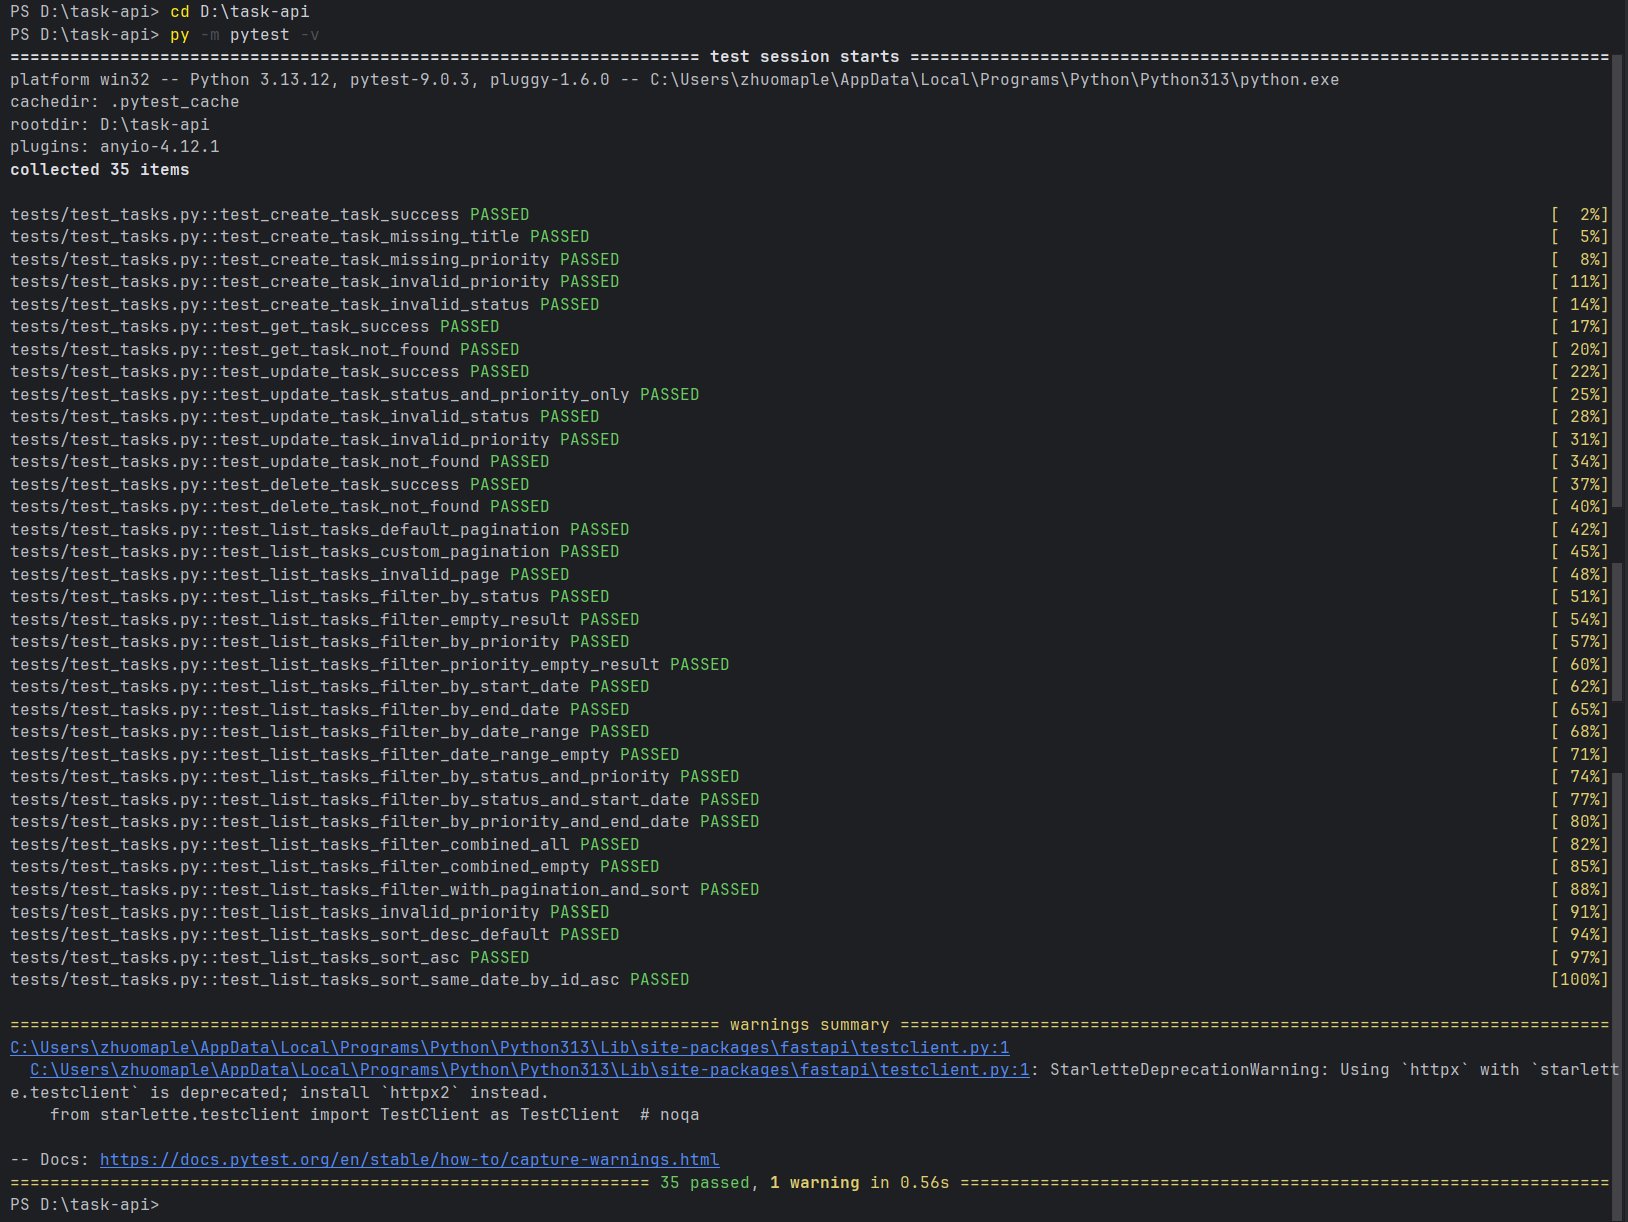
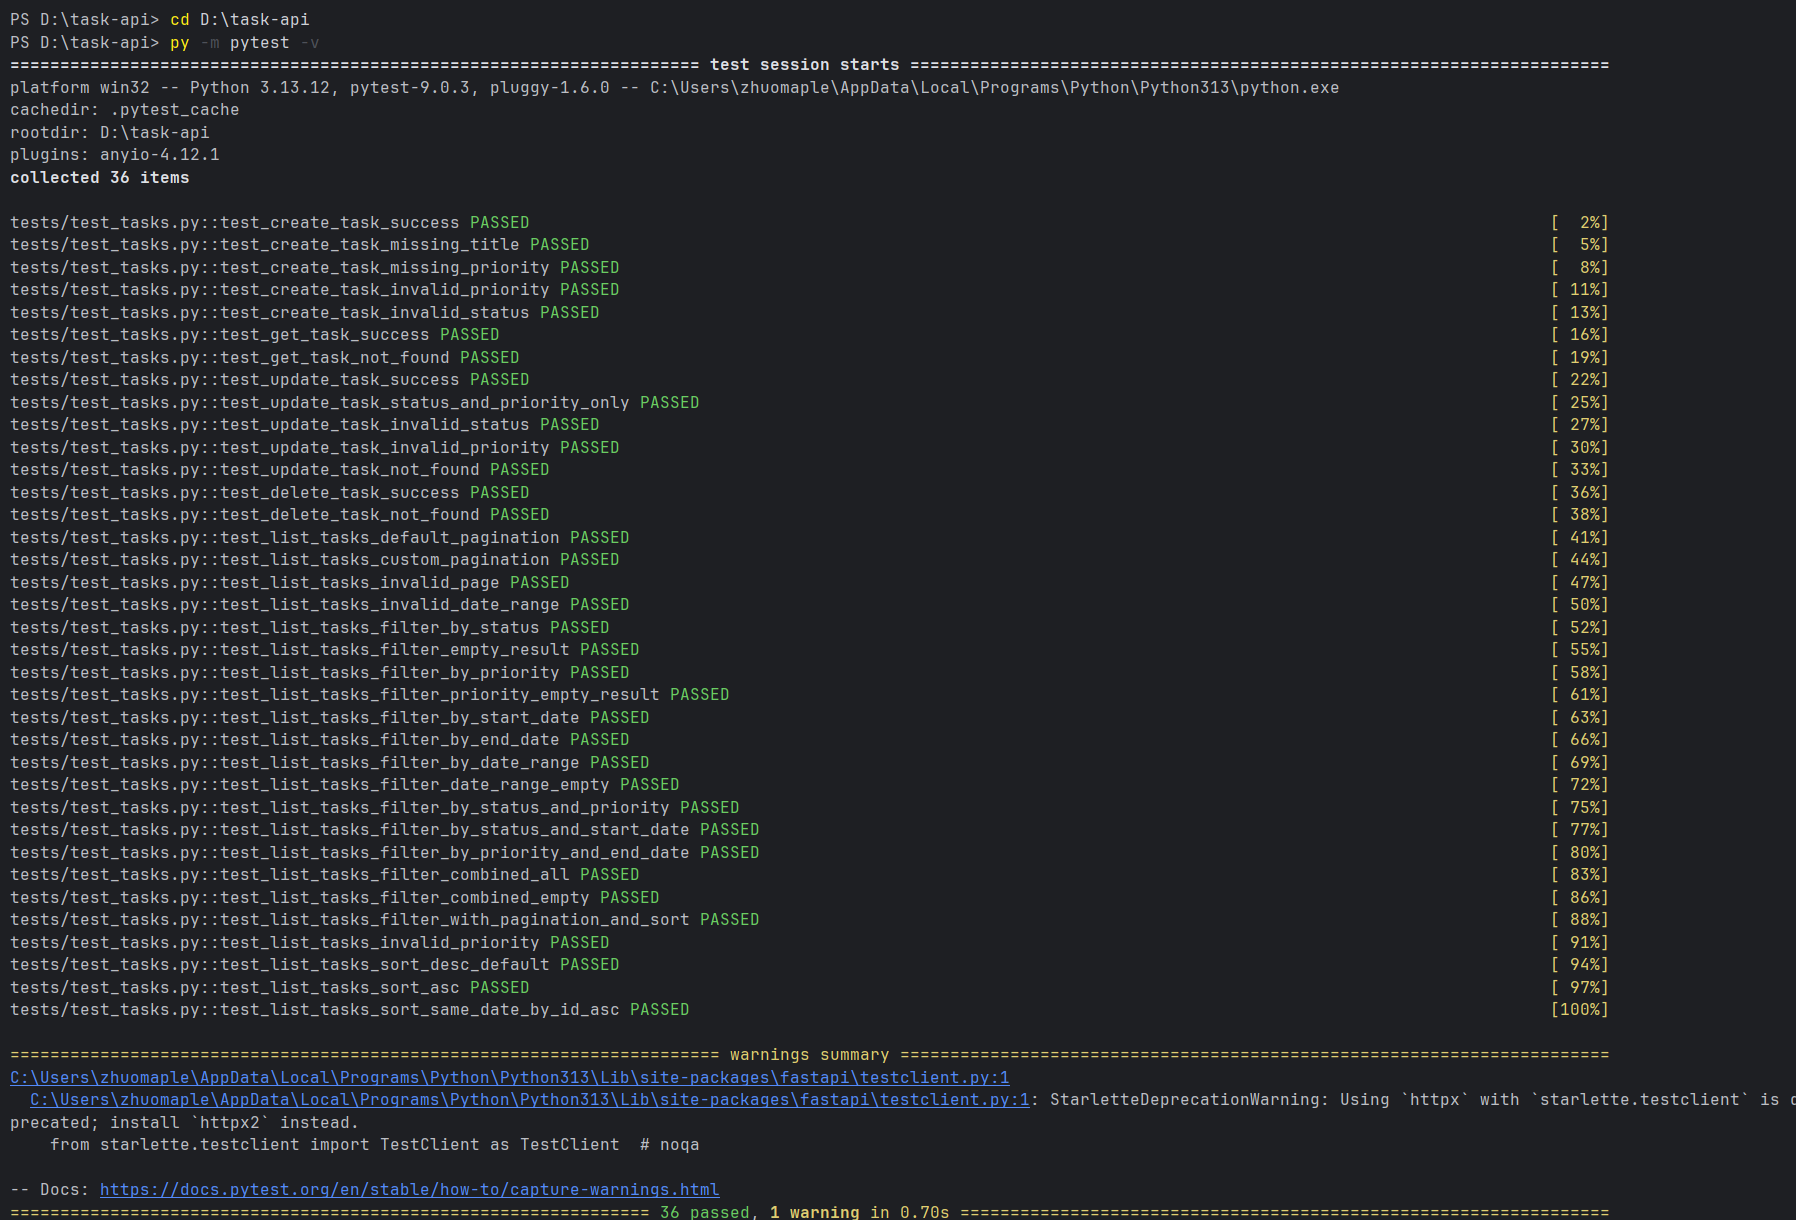
fix: start_date 晚于 end_date 返回 422

Changed region(s): [[0.0, 0.0, 1.0, 1.0]]

diff --git a/tests/test_tasks.py b/tests/test_tasks.py
@@ -168,6 +168,15 @@ def test_list_tasks_invalid_page(client):
     assert response.status_code == 422
 
 
+def test_list_tasks_invalid_date_range(client):
+    response = client.get(
+        "/tasks",
+        params={"start_date": "2026-06-07", "end_date": "2026-06-02"},
+    )
+    assert response.status_code == 422
+    assert response.json()["detail"] == "start_date must not be after end_date"
+
+
 def test_list_tasks_filter_by_status(client):
     client.post(
         "/tasks",

diff --git a/app/routers/tasks.py b/app/routers/tasks.py
@@ -69,6 +69,12 @@ def list_tasks(
     sort: str = Query("desc", pattern="^(asc|desc)$"),
     db: Session = Depends(get_db),
 ):
+    if start_date is not None and end_date is not None and start_date > end_date:
+        raise HTTPException(
+            status_code=422,
+            detail="start_date must not be after end_date",
+        )
+
     filters = {
         "status": status,
         "priority": priority,

diff --git a/openspec/changes/task-management-api/design.md b/openspec/changes/task-management-api/design.md
@@ -135,7 +135,7 @@
 | page_size | int | 每页条数，默认 20，上限 100 |
 | sort | asc / desc | 按 created_at 排序，默认 desc；created_at 相同时按 id 升序 |
 
-**时间范围说明**：`start_date` 与 `end_date` 表示从某年某月某日起到某年某月某日止（按任务的 `created_at` 判断）。可只传其一，也可同时传入表示闭区间；例如 `start_date=2026-01-01&end_date=2026-06-30` 表示 2026 年 1 月 1 日至 6 月 30 日之间创建的任务。
+**时间范围说明**：`start_date` 与 `end_date` 表示从某年某月某日起到某年某月某日止（按任务的 `created_at` 判断）。可只传其一，也可同时传入表示闭区间；例如 `start_date=2026-01-01&end_date=2026-06-30` 表示 2026 年 1 月 1 日至 6 月 30 日之间创建的任务。若同时传入且 `start_date` 晚于 `end_date`，返回 422。
 
 多个过滤参数同时传入时，条件之间为 **AND** 关系（见 specs「多条件组合过滤」）。
 

diff --git a/openspec/changes/task-management-api/tasks.md b/openspec/changes/task-management-api/tasks.md
@@ -21,7 +21,7 @@
 - [x] 3.1 实现 GET /tasks 默认分页（page=1、page_size=20），响应含 items、total、page、page_size；page=0 等非法值返回 422
 - [x] 3.2 实现按 status 过滤，支持空结果（items=[]、total=0）
 - [x] 3.3 实现按 priority 过滤
-- [x] 3.4 实现按创建日期过滤：查询参数 `start_date` / `end_date`（YYYY-MM-DD），支持单边界与闭区间；无匹配时返回空列表
+- [x] 3.4 实现按创建日期过滤：查询参数 `start_date` / `end_date`（YYYY-MM-DD），支持单边界与闭区间；无匹配时返回空列表；`start_date` 晚于 `end_date` 返回 422
 - [x] 3.5 实现 `_apply_list_filters()`：status、priority、start_date、end_date 以 AND 组合（对照「多条件组合过滤」全部 Scenario）
 - [x] 3.6 实现按 created_at 排序：默认 desc（新→旧），`sort=asc` 为旧→新；created_at 相同时按 id 升序；组合过滤与分页、排序可同时生效
 

diff --git a/openspec/changes/task-management-api/specs/task-list/spec.md b/openspec/changes/task-management-api/specs/task-list/spec.md
@@ -75,6 +75,11 @@ The system SHALL 支持按 created_at 的日期范围过滤任务列表（从某
 - THEN 返回 HTTP 200
 - AND items 中每条任务的 created_at 日期均在 2026-01-01 至 2026-06-30 之间（含首尾）
 
+#### Scenario: 起始日期晚于结束日期
+- GIVEN 任意数据库状态
+- WHEN 客户端 GET /tasks?start_date=2026-06-07&end_date=2026-06-02
+- THEN 返回 HTTP 422
+
 #### Scenario: 日期范围内无匹配
 - GIVEN 所有任务创建于 2026-06-01
 - WHEN 客户端 GET /tasks?start_date=2026-12-01&end_date=2026-12-31
